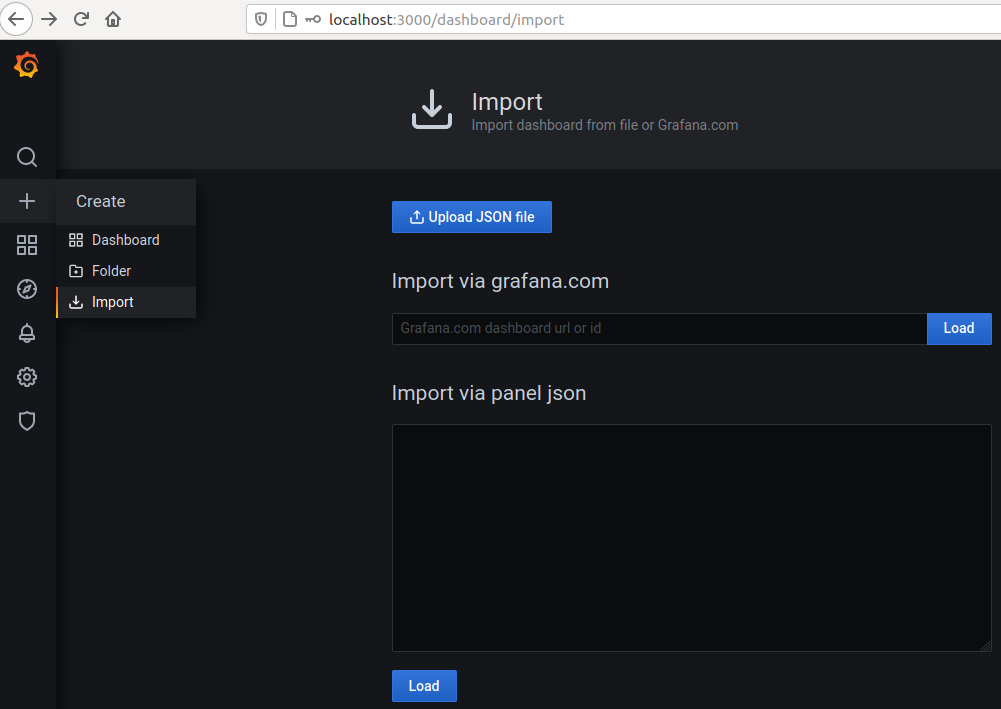
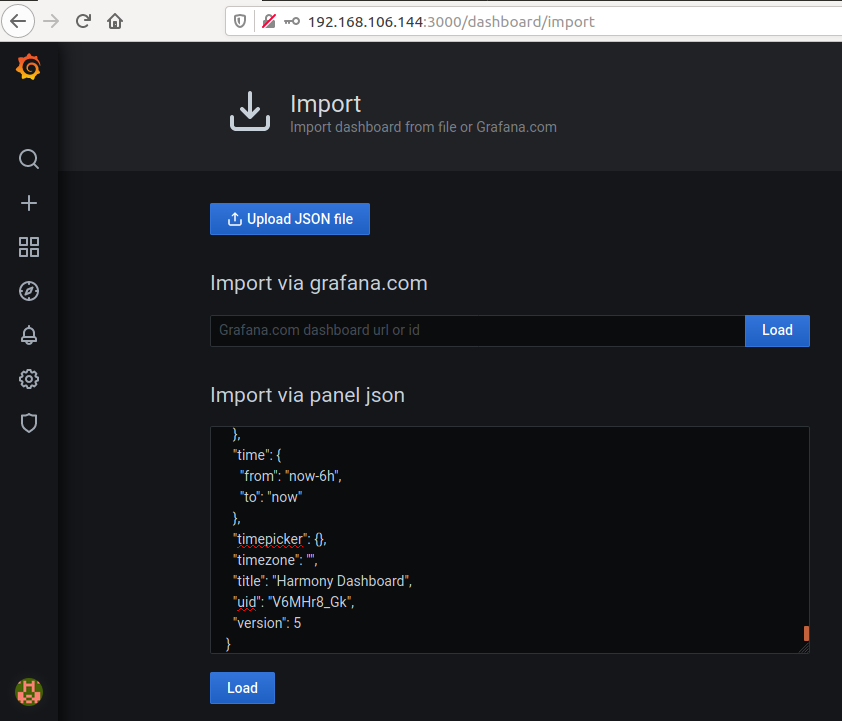
add spaces to fix lines, example of dashboard

diff --git a/readme.md b/readme.md
@@ -73,9 +73,9 @@ hmy_stream_setup_stream_duration_count{topic="harmony/sync/localnet/0/1.0.0"} 78
 # Setup of Prometheus
 7. Download and Unzip Prometheus from https://prometheus.io/download/
 
-8. Change Configuration Settings for Prometheus
-For me, my harmony node is running on "192.168.106.143"
-Change your settings to fit what you need.
+8. Change Configuration Settings for Prometheus  
+For me, my harmony node is running on "192.168.106.143"  
+Change your settings to fit what you need.  
 ```
 # my global config
 global:
@@ -117,7 +117,7 @@ user@ubuntu:~/Downloads/prometheus-2.26.0.linux-amd64$ ./prometheus
 
 9. Test that the Prometheus site is working
 ```
-Visit http://192.168.106.144:9090 -> Remember that you need to use your own prometheus server ip
+Visit http://192.168.106.144:9090 -> Remember that you need to use your own prometheus server ip  
 You can enter up in the execute as shown in the picture below
 ```
 ![Prometheus](./img/prometheus.png)
@@ -178,8 +178,194 @@ password: admin
 ![grafana discord test](./img/grafana_test.png)
 
 # Importing a grafana dashboard
-23. Import my dashboard here..
+23. Import my dashboard here..  
 ![grafana discord test](./img/importdashboard.png)
 
-24. Download the hmy.json and upload it to see what I created.
+24. copy and paste the hmy.json into panel.json and upload it to see what I created.  
+```
+{
+    "annotations": {
+      "list": [
+        {
+          "builtIn": 1,
+          "datasource": "-- Grafana --",
+          "enable": true,
+          "hide": true,
+          "iconColor": "rgba(0, 211, 255, 1)",
+          "name": "Annotations & Alerts",
+          "type": "dashboard"
+        }
+      ]
+    },
+    "description": "Monitoring Dashboard",
+    "editable": true,
+    "gnetId": null,
+    "graphTooltip": 0,
+    "id": 1,
+    "links": [],
+    "panels": [
+      {
+        "collapsed": true,
+        "datasource": null,
+        "gridPos": {
+          "h": 1,
+          "w": 24,
+          "x": 0,
+          "y": 0
+        },
+        "id": 2,
+        "panels": [],
+        "title": "Status",
+        "type": "row"
+      },
+      {
+        "datasource": null,
+        "fieldConfig": {
+          "defaults": {
+            "color": {
+              "mode": "thresholds"
+            },
+            "mappings": [],
+            "thresholds": {
+              "mode": "absolute",
+              "steps": [
+                {
+                  "color": "green",
+                  "value": null
+                },
+                {
+                  "color": "red",
+                  "value": 80
+                }
+              ]
+            }
+          },
+          "overrides": []
+        },
+        "gridPos": {
+          "h": 5,
+          "w": 6,
+          "x": 0,
+          "y": 1
+        },
+        "id": 4,
+        "options": {
+          "orientation": "auto",
+          "reduceOptions": {
+            "calcs": [
+              "lastNotNull"
+            ],
+            "fields": "",
+            "values": false
+          },
+          "showThresholdLabels": false,
+          "showThresholdMarkers": true,
+          "text": {}
+        },
+        "pluginVersion": "7.5.3",
+        "targets": [
+          {
+            "exemplar": true,
+            "expr": "up",
+            "interval": "",
+            "legendFormat": "",
+            "refId": "A"
+          }
+        ],
+        "timeFrom": null,
+        "timeShift": null,
+        "title": "Harmony Online",
+        "type": "gauge"
+      },
+      {
+        "datasource": null,
+        "description": "",
+        "fieldConfig": {
+          "defaults": {
+            "color": {
+              "mode": "thresholds"
+            },
+            "mappings": [],
+            "thresholds": {
+              "mode": "absolute",
+              "steps": [
+                {
+                  "color": "green",
+                  "value": null
+                },
+                {
+                  "color": "red",
+                  "value": 80
+                }
+              ]
+            },
+            "unit": "short"
+          },
+          "overrides": []
+        },
+        "gridPos": {
+          "h": 5,
+          "w": 10,
+          "x": 6,
+          "y": 1
+        },
+        "id": 6,
+        "options": {
+          "orientation": "auto",
+          "reduceOptions": {
+            "calcs": [
+              "lastNotNull"
+            ],
+            "fields": "",
+            "values": false
+          },
+          "showThresholdLabels": false,
+          "showThresholdMarkers": true,
+          "text": {}
+        },
+        "pluginVersion": "7.5.3",
+        "targets": [
+          {
+            "exemplar": true,
+            "expr": "promhttp_metric_handler_requests_in_flight",
+            "hide": true,
+            "instant": false,
+            "interval": "",
+            "legendFormat": "",
+            "refId": "Pending"
+          },
+          {
+            "exemplar": true,
+            "expr": "rate(promhttp_metric_handler_requests_total[5m])",
+            "hide": false,
+            "instant": false,
+            "interval": "",
+            "legendFormat": "",
+            "refId": "Total"
+          }
+        ],
+        "timeFrom": null,
+        "timeShift": null,
+        "title": "Metric Handler",
+        "type": "gauge"
+      }
+    ],
+    "refresh": false,
+    "schemaVersion": 27,
+    "style": "dark",
+    "tags": [],
+    "templating": {
+      "list": []
+    },
+    "time": {
+      "from": "now-6h",
+      "to": "now"
+    },
+    "timepicker": {},
+    "timezone": "",
+    "title": "Harmony Dashboard",
+    "uid": "V6MHr8_Gk",
+    "version": 5
+  }
+```
 
